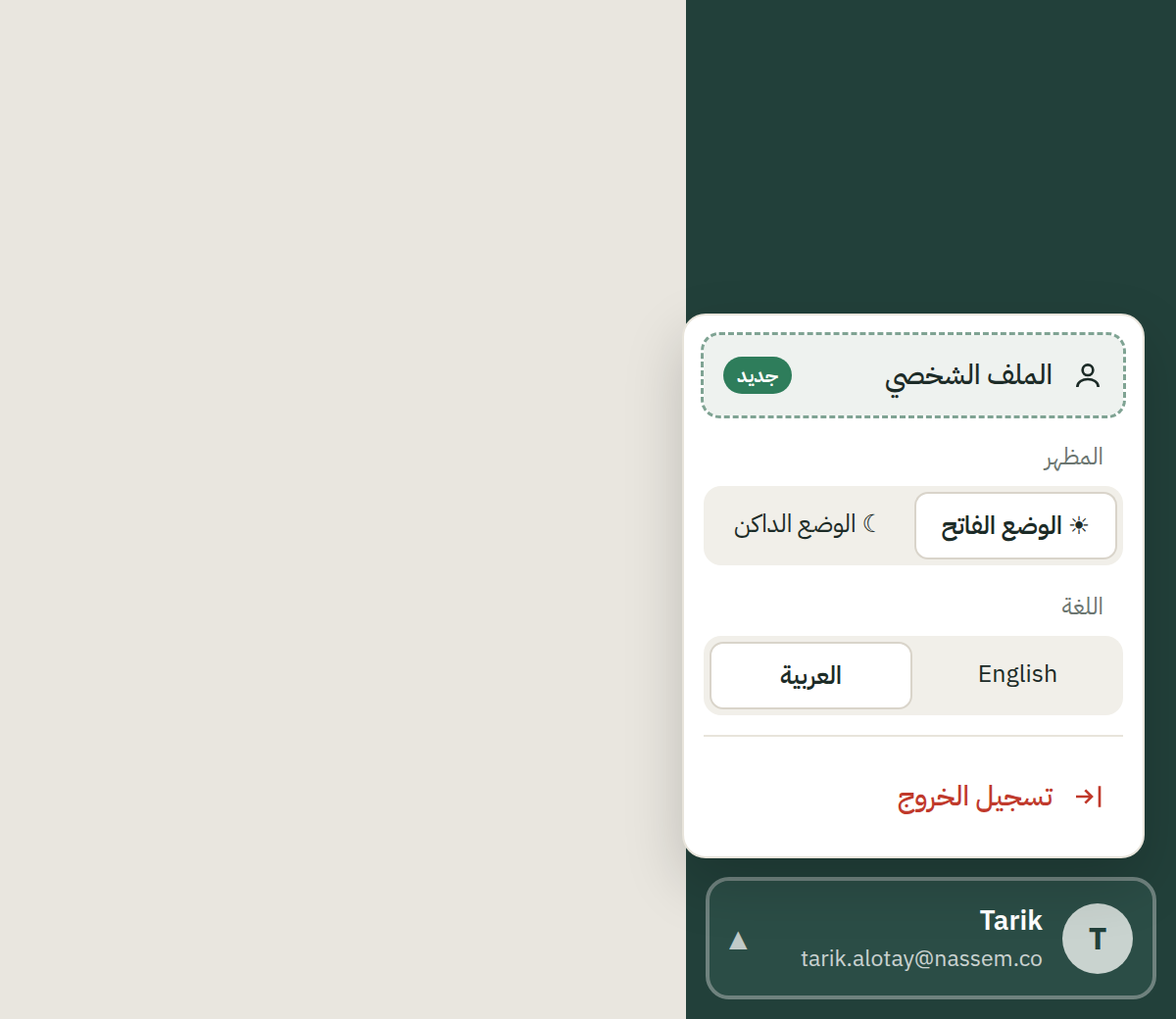
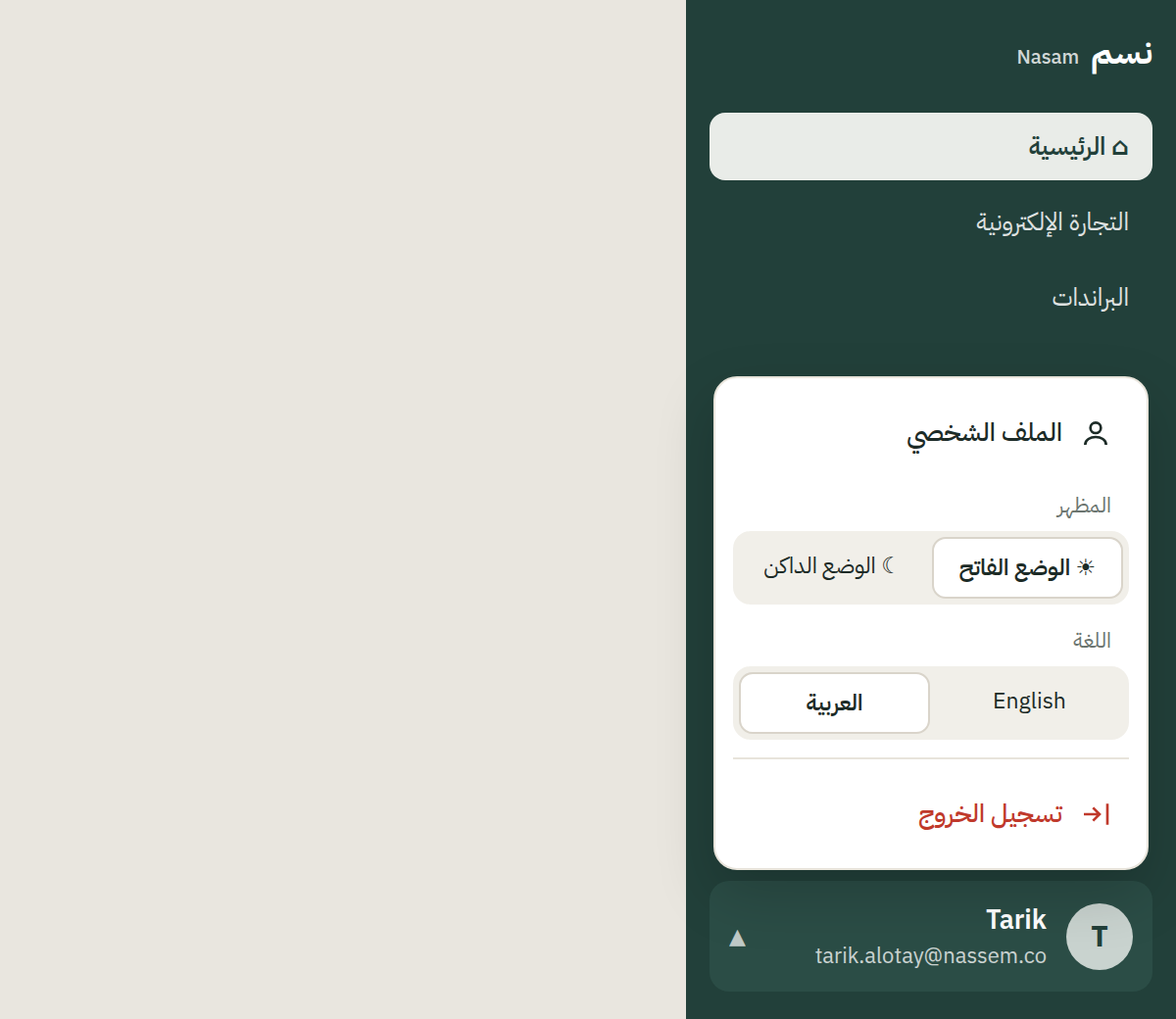
Drop contact email and name preview; add EN mockups on neutral palette
Profile now holds Arabic name, English name, read-only login email and
optional phone only. All six mockups are regenerated in Arabic and
English on the existing Nasam palette with no green accents, badges or
highlights. Docs, data model, API notes and the FE-session prompt are
updated to match.

Claude-Session: https://claude.ai/code/session_01AtmWM16RAQw9CKzDmzBdfN

diff --git a/docs/discovery/user-profile/DISCOVERY.md b/docs/discovery/user-profile/DISCOVERY.md
@@ -1,13 +1,14 @@
-# User Profile (Names, Contact Email, Phone) - UX Discovery
+# User Profile (Localized Names, Phone) - UX Discovery
 
 **Status:** Proposed · **Requested by:** Tarik · **Date:** 2026-09-05
+**Revision:** contact email and the live name preview were removed at the requester's decision; the profile holds names + phone only.
 **Repos affected:** `Nasam-co/nasam` (API + DB), `Nasam-co/nasam-frontend-v2` (UI)
 
 ## Outcome
 
 **Business goal:**
 1. Stop showing mixed-language greetings such as "مساء الخير يا Tarik" (Arabic sentence, English name). The greeting should read naturally in whichever language the user chose.
-2. Have a reliable way to reach every platform user (phone + a second email) when something urgent happens with a brand — a listing suspension, an account-health penalty, a failed campaign — and the person needs to be contacted outside the app.
+2. Have a reliable way to reach every platform user (phone) when something urgent happens with a brand — a listing suspension, an account-health penalty, a failed campaign — and the person needs to be contacted outside the app.
 
 **Success metrics:**
 - 0 greetings where the name script does not match the UI language for users who filled a name in that language.
@@ -16,7 +17,7 @@
 
 ## Problem Statement
 
-Nasam stores only one "full name" and one login email per user, so the platform cannot address the user correctly in both Arabic and English and has no phone or alternate email to reach them when a brand emergency happens outside the app.
+Nasam stores only one "full name" and one login email per user, so the platform cannot address the user correctly in both Arabic and English and has no phone number to reach them when a brand emergency happens outside the app.
 
 ## Target User
 
@@ -42,7 +43,7 @@ Root cause: one free-text `fullName` field with no language, and the greeting si
 
 ## Solution Concept
 
-**Direction:** Add a self-service **Profile** dialog reachable from the sidebar user menu (and by clicking the name/avatar row). It holds two localized name fields (Arabic, English), the login email (read-only), an optional contact email, and a phone number with a country-code selector. Everywhere the platform shows the user's name (greeting, sidebar, admin user list, reports), it uses a single `displayName(user, locale)` rule that picks the name matching the current UI language and falls back sensibly.
+**Direction:** Add a self-service **Profile** dialog reachable from the sidebar user menu (and by clicking the name/avatar row). It holds two localized name fields (Arabic, English), the login email (read-only), and an optional phone number with a country-code selector. Everywhere the platform shows the user's name (greeting, sidebar, admin user list, reports), it uses a single `displayName(user, locale)` rule that picks the name matching the current UI language and falls back sensibly.
 
 **Key insight:** The greeting bug is not a greeting bug — it is a data-model bug. Fixing it means storing names per language, and the profile screen is simply the place where users supply that data. Solving the naming problem gives us a natural, non-intrusive moment to also ask for contact details.
 
@@ -60,7 +61,7 @@ Root cause: one free-text `fullName` field with no language, and the greeting si
 ### Happy path
 1. User clicks their name in the sidebar footer → menu opens → "My profile".
 2. Profile dialog opens with current values prefilled (see migration below for how existing names are split).
-3. User edits Arabic name, English name, contact email, phone (country code selector defaults to Saudi Arabia +966, or to the user's already-saved country).
+3. User edits Arabic name, English name, phone (country code selector defaults to Saudi Arabia +966, or to the user's already-saved country).
 4. "Save" → inline validation → success toast "تم حفظ الملف الشخصي" / "Profile saved" → dialog closes.
 5. Sidebar name and home greeting update immediately with no reload (refetch or optimistic update of the current-user store).
 
@@ -74,18 +75,16 @@ Root cause: one free-text `fullName` field with no language, and the greeting si
 - **Existing full name is mixed script** ("Mohamed العدوي"): migration leaves both localized names empty and keeps `fullName` as the fallback; the user will be asked to fill them.
 - **Phone entered with a leading 0 or with the country code typed into the number** (common for +966 05x…): normalize with a phone library (libphonenumber) before validation; store E.164 (`+9665xxxxxxxx`) plus ISO country (`SA`). Display formatted for humans.
 - **Phone already used by another user:** allow it (a brand owner and their assistant may share a business line). No uniqueness constraint.
-- **Contact email equals login email:** allow, but it adds nothing; show a soft hint "This is already your login email" and still save.
 - **Very long or emoji-laden names:** trim, max 100 chars per name, reject control characters.
 
 ### Error states
 - **Arabic name contains no Arabic letters** (e.g. user types "Tarik" into the Arabic field): block save with "الاسم العربي يجب أن يُكتب بحروف عربية" / "Arabic name must be written in Arabic letters". This is the single most important validation — it is the only thing that structurally prevents image 3 from recurring.
 - **English name contains Arabic letters:** symmetric error "English name must be written in Latin letters".
 - **Invalid phone for the selected country:** "رقم الجوال غير صحيح لهذه الدولة" / "This number is not valid for the selected country".
-- **Invalid contact email:** standard format error.
 - **Network / server failure on save:** keep the dialog open with values intact, show an error toast, allow retry.
 
 ### Empty state
-First open after release: localized names prefilled by migration where possible, phone empty with the country selector on +966, contact email empty. Optional fields carry helper text explaining *why* we ask (see Content Needs) — this is the difference between "another form" and "they want to reach me if my store has a problem".
+First open after release: localized names prefilled by migration where possible, phone empty with the country selector on +966. Optional fields carry helper text explaining *why* we ask (see Content Needs) — this is the difference between "another form" and "they want to reach me if my store has a problem".
 
 ## Information Architecture
 
@@ -99,15 +98,13 @@ The dialog is one screen, no tabs. Order reflects what the user came for and wha
 
 ### Secondary (supporting context)
 - **Login email** — read-only, with the existing note "لا يمكن تغيير البريد الإلكتروني" (same as image 2). Keeps the user oriented about which account this is.
-- **Contact email** — optional input. Helper: "بريد بديل للتواصل معك إن تعذّر الوصول إليك عبر البريد الأساسي" / "An alternate email if we can't reach you on your login email".
-- **Live preview line** — small text under the names: "سيظهر اسمك كالتالي: مساء الخير يا محمد" / "You will appear as: Good evening, Mohamed", re-rendered as they type in the current UI language. Cheap, and it makes the "why two names" question answer itself.
 
 ### Tertiary (on demand)
-- Nothing hidden. Four inputs and a read-only email do not need progressive disclosure. Resist adding role, avatar upload, password change here for now — those are separate tasks.
+- Nothing hidden. Three inputs and a read-only email do not need progressive disclosure. Resist adding role, avatar upload, password change here for now — those are separate tasks.
 
 ### Navigation placement
 - Sidebar footer menu (image 1): **My profile · Appearance · Language · Logout**, in that order. Profile is first because it is an action on "me"; the other three are preferences and stay where users know them.
-- Admin user management (image 2): same fields inside the existing "Edit user" dialog, replacing the single "Full name" input with the two localized names, and adding phone + contact email below the email. Admin dialog keeps its title and layout otherwise. The Role ("الدور") control and all other existing settings in that dialog are out of scope and stay as they are; they will be handled in a later task.
+- Admin user management (image 2): same fields inside the existing "Edit user" dialog, replacing the single "Full name" input with the two localized names, and adding phone below the email. Admin dialog keeps its title and layout otherwise. The Role ("الدور") control and all other existing settings in that dialog are out of scope and stay as they are; they will be handled in a later task.
 
 ## Key Interactions
 
@@ -130,7 +127,6 @@ Field names are a proposal; the implementer should align with existing conventio
 |---|---|---|
 | `name_ar` | varchar(100) | Arabic-script name |
 | `name_en` | varchar(100) | Latin-script name |
-| `contact_email` | varchar(255) | optional, validated format, not unique |
 | `phone_e164` | varchar(20) | E.164, e.g. `+966551234567` |
 | `phone_country` | char(2) | ISO 3166-1 alpha-2, e.g. `SA` |
 
@@ -138,9 +134,11 @@ Field names are a proposal; the implementer should align with existing conventio
 - **One-time migration/backfill:** for each user, if `full_name` is entirely Arabic script (plus spaces) → copy into `name_ar`; if entirely Latin → copy into `name_en`; otherwise leave both null. This makes the feature "work" for most users on day one without asking anything.
 
 **API:**
-- `GET /me` — returns the five new fields alongside the existing ones.
-- `PATCH /me` — accepts the five fields; server-side validation: script check per name, phone parsed/validated with libphonenumber for the given country, email format. Login email is not accepted here.
+- `GET /me` — returns the four new fields alongside the existing ones.
+- `PATCH /me` — accepts the four fields; server-side validation: script check per name, phone parsed/validated with libphonenumber for the given country. Login email is not accepted here.
 - Admin `PATCH /users/:id` — same fields, same validation, existing authorization.
+
+**Visual palette:** stay on the existing Nasam UI palette as seen in the current app (dark sidebar, cream surfaces, neutral borders, dark-ink primary button, red only for errors and logout). Do not introduce green accent colors, badges, or highlights; the mockups in `mockups/` follow this.
 
 **Display rule (single shared helper, used everywhere a user's name is rendered):**
 
@@ -167,13 +165,13 @@ The home greeting must use this helper and must omit the "يا {name}" / ", {nam
 
 ## Heuristics Notes
 
-- **Visibility of system status:** live "You will appear as" preview + immediate sidebar/greeting update after save.
+- **Visibility of system status:** immediate sidebar/greeting update after save, plus a success toast.
 - **Match between system and real world:** country flags + dial codes, and each name field in its own script direction.
 - **Error prevention:** direction forcing per field, digit normalization, country auto-detect on paste — most errors are prevented before validation runs.
 - **User control:** dirty-close guard, Cancel always available, nothing saved until Save.
 - **Consistency:** reuses the "Edit user" dialog layout and the read-only-email note that users have already seen.
 - **Accessibility:** every input has a visible label (not placeholder-only), errors are associated with fields via `aria-describedby`, the country selector is keyboard-navigable and searchable, contrast follows the existing light/dark themes. Screen readers announce the save toast.
-- **Cognitive load:** five fields, one screen, no tabs, helper text explains *why* only where a user might hesitate (names, phone).
+- **Cognitive load:** four fields, one screen, no tabs, helper text explains *why* only where a user might hesitate (names, phone).
 
 ## Critique & Risks
 
@@ -182,7 +180,7 @@ The home greeting must use this helper and must omit the "يا {name}" / ", {nam
 - **Script validation false positives:** names with apostrophes, hyphens, or diacritics ("Al-Otaibi", "محمّد"). Validation must allow punctuation, spaces, and Arabic diacritics; the check is "contains at least one letter of the expected script and no letters of the other script", not "only letters of the expected script".
 - **Non-Arabic, non-Latin names** (e.g. a Turkish colleague with "İ", or a Cyrillic name): Latin extended is Latin — accept it in the English field. Anything else is out of scope; the legacy full name still works as a fallback.
 - **Phone verification is absent:** a typo silently produces an unreachable number. Acceptable for v1; OTP verification is a natural follow-up once SMS alerts exist.
-- **Privacy:** phone and contact email are personal data. They should be visible only to the user and to admins with user-management rights, not to other users of the same organization by default. Confirm with the existing permissions model.
+- **Privacy:** the phone number is personal data. They should be visible only to the user and to admins with user-management rights, not to other users of the same organization by default. Confirm with the existing permissions model.
 
 ## Content Needs
 
@@ -191,7 +189,6 @@ The home greeting must use this helper and must omit the "يا {name}" / ", {nam
 - الاسم بالعربية / Name in Arabic
 - الاسم بالإنجليزية / Name in English
 - البريد الإلكتروني (تسجيل الدخول) / Login email
-- بريد إلكتروني للتواصل (اختياري) / Contact email (optional)
 - رقم الجوال (اختياري) / Phone number (optional)
 - الدولة / Country
 - حفظ / Save · إلغاء / Cancel
@@ -199,7 +196,6 @@ The home greeting must use this helper and must omit the "يا {name}" / ", {nam
 **Helper text:**
 - Names: "يُستخدم عندما تكون واجهة المنصة بالعربية" / "Used when the platform is in English"
 - Phone: "حتى نتمكن من التواصل معك بسرعة في الحالات الطارئة المتعلقة بمتجرك" / "So we can reach you quickly if something urgent happens with your store"
-- Preview: "سيظهر اسمك كالتالي: {greeting}" / "You will appear as: {greeting}"
 
 **Nudge (home page):** "أضف رقم جوالك حتى نتمكن من التواصل معك في الحالات الطارئة · إضافة" / "Add your phone so we can reach you in urgent cases · Add"
 
@@ -207,7 +203,6 @@ The home greeting must use this helper and must omit the "يا {name}" / ", {nam
 - "الاسم العربي يجب أن يُكتب بحروف عربية" / "Arabic name must be written in Arabic letters"
 - "الاسم الإنجليزي يجب أن يُكتب بحروف لاتينية" / "English name must be written in Latin letters"
 - "رقم الجوال غير صحيح لهذه الدولة" / "This number is not valid for the selected country"
-- "صيغة البريد الإلكتروني غير صحيحة" / "Email format is not valid"
 - "تعذّر الحفظ، حاول مرة أخرى" / "Could not save, please try again"
 
 **Confirmations:**
@@ -218,15 +213,14 @@ The home greeting must use this helper and must omit the "يا {name}" / ", {nam
 
 ## Open Questions (for Tarik)
 
-1. **Contact email vs. login email:** the request says "email" — confirmed here as an *additional* contact email, since the login email is read-only. If you meant something else (e.g. making login email editable), say so.
-2. **Who can see phone/contact email?** Proposed: the user themselves + admins with user-management rights. Should org owners see their own staff's numbers?
-3. **Should phone become mandatory for Nasam AMs/GCs** after a grace period? Optional for everyone in v1 as requested.
-4. **Phone verification (OTP)** — out of scope for v1; flag if you want it now.
-5. **Country list:** all countries, or a short list (SA, AE, KW, QA, BH, OM, EG, TR, JO) first with "more" below? Proposed: full list, GCC + Turkey + Egypt pinned at the top.
+1. **Who can see the phone number?** Proposed: the user themselves + admins with user-management rights. Should org owners see their own staff's numbers?
+2. **Should phone become mandatory for Nasam AMs/GCs** after a grace period? Optional for everyone in v1 as requested.
+3. **Phone verification (OTP)** — out of scope for v1; flag if you want it now.
+4. **Country list:** all countries, or a short list (SA, AE, KW, QA, BH, OM, EG, TR, JO) first with "more" below? Proposed: full list, GCC + Turkey + Egypt pinned at the top.
 
 ## Implementation Checklist
 
-- [ ] DB migration: five nullable columns on `users` + backfill script splitting `full_name` by script
+- [ ] DB migration: four nullable columns on `users` + backfill script splitting `full_name` by script
 - [ ] API: extend `GET /me`, `PATCH /me`, admin `PATCH /users/:id` with validation (script check, libphonenumber, email format)
 - [ ] Shared `displayName(user, locale)` helper (backend for emails/reports, frontend for UI) and greeting updated to omit the name segment when empty
 - [ ] Frontend: Profile dialog + "My profile" menu item + clickable sidebar name row

diff --git a/docs/discovery/user-profile/UX-TOUCH.md b/docs/discovery/user-profile/UX-TOUCH.md
@@ -3,7 +3,8 @@
 **Type:** UX touch — an addition to shipped UI (sidebar user menu, home greeting, admin "Edit user" dialog).
 **Where it ships:** `Nasam-co/nasam-frontend-v2`. The backend (`Nasam-co/nasam`) is checked only for whether the data fields exist; if they do not, a small schema/API addition is a prerequisite (see "Backend data check").
 **Companion doc:** `DISCOVERY.md` in this folder holds the full reasoning, copy, and validation rules. This file is the placement-level design an implementer works from.
-**Mockups:** `mockups/` in this folder (rendered PNGs).
+**Mockups:** `mockups/` in this folder (rendered PNGs, each in Arabic `-ar` and English `-en`). Palette: the existing Nasam UI palette only (dark sidebar, cream surfaces, neutral borders, dark-ink primary button, red for errors/logout). No green accents, badges, or highlights.
+**Revision:** contact email and the live name preview were removed at the requester's decision.
 
 > Note on grounding: this session could not read either Nasam-co repository (cross-owner access is blocked from a session started on this repo). The "existing feature" section below is reconstructed from the three screenshots in the request. The implementer must confirm component names and data flow in the frontend session before building; every place that needs confirmation is marked **[verify]**.
 
@@ -24,7 +25,7 @@
 ## 2. The need (from the request)
 
 - Users should be able to open their profile from the main page by clicking their name.
-- They can add an **Arabic name**, an **English name**, a **contact email**, and a **phone number with country code**.
+- They can add an **Arabic name**, an **English name**, and a **phone number with country code**.
 - Existing data (full name, login email) stays **mandatory**; the new fields are **optional**.
 - Goal 1: stop the mixed-language greeting (image 3).
 - Goal 2: have contact details ("contacts") for emergency cases.
@@ -34,7 +35,7 @@
 ## 3. Placement
 
 ### 3a. Sidebar user menu → add "My profile" as the first row
-- **How the user opens the profile** (see `mockups/07-open-profile-flow-ar.png`): (1) click the name/avatar row at the bottom of the sidebar → (2) the existing popover opens with "الملف الشخصي / My profile" as its first row → (3) clicking it opens the profile dialog over the current page. Alternate entry: the "إضافة / Add" link in the home-page phone nudge opens the same dialog with the phone field focused.
+- **How the user opens the profile** (see `mockups/06-open-profile-flow-ar.png` / `-en.png`): (1) click the name/avatar row at the bottom of the sidebar → (2) the existing popover opens with "الملف الشخصي / My profile" as its first row → (3) clicking it opens the profile dialog over the current page. Alternate entry: the "إضافة / Add" link in the home-page phone nudge opens the same dialog with the phone field focused.
 - **Above:** nothing; it is the first item in the popover.
 - **Below:** the existing Appearance section, then Language, then the divider and Logout. The three existing controls do not move.
 - Row style matches the Logout row (icon + label), with a user icon. Optional "جديد / New" pill for the first release; remove after a few weeks.
@@ -45,11 +46,9 @@
 - Field order, top to bottom:
   1. Name in Arabic (`dir="rtl"` forced)
   2. Name in English (`dir="ltr"` forced)
-  3. Live preview line: "سيظهر اسمك كالتالي: مساء الخير يا طارق" / "You will appear as: Good evening, Tarik" — rendered with the same greeting function the home page uses, in the current UI locale
-  4. Login email (disabled, existing note under it)
-  5. Contact email (optional)
-  6. Phone: country-code selector + number input (optional)
-  7. Save / Cancel
+  3. Login email (disabled, existing note under it)
+  4. Phone: country-code selector + number input (optional)
+  5. Save / Cancel
 - Width: same as "Edit user" (~520px). Height fits without scrolling on a 768px-tall laptop; on smaller viewports the dialog body scrolls, header and buttons stay fixed.
 
 ### 3c. Home greeting → use the localized name
@@ -59,7 +58,7 @@
 
 ### 3d. Admin "Edit user" dialog → same fields
 - Replace the single "Full name" input with "Name in Arabic" + "Name in English".
-- Add Phone and Contact email below the email field, before Role.
+- Add Phone below the email field, before Role.
 - **Role ("الدور") and every other existing control in this dialog stay exactly as they are today.** Do not restyle, reorder, or change the role selector; it will be revisited in a separate task. The mockup shows it as an "as-is" placeholder for that reason.
 - Keep the legacy full name readable somewhere only if the two localized names are both empty (e.g. as placeholder text in the Arabic/English inputs, "Migrated from: {fullName}"), so admins understand what the migration did.
 
@@ -70,12 +69,10 @@
 | Item | Level | Notes |
 |---|---|---|
 | Arabic name, English name | Primary | The reason the user is here. Each in its own script direction. |
-| Live greeting preview | Primary | Answers "why two names" without a paragraph of help text. |
 | Phone (+country) | Primary | The business's second goal. Helper text explains the emergency purpose. |
 | Login email (read-only) | Secondary | Orientation only. |
-| Contact email | Secondary | Optional; helper explains it is a fallback channel. |
 
-Data relations: the names feed the sidebar footer, home greeting, admin user list, and any place the user's name is printed (reports, activity logs) **[verify: list the call sites of `fullName`]**. Phone and contact email are shown only in the profile and the admin dialog.
+Data relations: the names feed the sidebar footer, home greeting, admin user list, and any place the user's name is printed (reports, activity logs) **[verify: list the call sites of `fullName`]**. The phone number is shown only in the profile and the admin dialog.
 
 ---
 
@@ -97,7 +94,6 @@ Data relations: the names feed the sidebar footer, home greeting, admin user lis
 - **No localized names yet (legacy user):** greeting and sidebar use `fullName`; dialog shows empty localized inputs with the migrated value as placeholder.
 - **Only one localized name:** used in both languages rather than showing nothing.
 - **Both names empty and `fullName` empty:** greeting drops the name segment; sidebar shows the email.
-- **Contact email = login email:** allowed, soft hint, no error.
 - **Same phone on two users:** allowed.
 - **Extremely long name:** 100-char max per field; sidebar truncates with ellipsis and full name on hover/title.
 - **Feature degrades gracefully:** if the BE does not yet return the new fields, the FE treats them as null and everything behaves exactly as today. Ship the FE behind that null-tolerance so it can go out before/with the BE change.
@@ -116,14 +112,14 @@ Data relations: the names feed the sidebar footer, home greeting, admin user lis
 
 Answer these before building the FE, in the FE/BE session that has repo access:
 
-1. **User entity / table:** does it already have any of `name_ar`, `name_en`, `phone`, `phone_country`, `contact_email` (or similar)? Search for `phone` and `nameAr` / `name_ar` in the user model, migrations, and DTOs. If any exist, reuse them and their validation.
-2. **Current-user endpoint** (`GET /me` or `GET /auth/me` **[verify path]**): which fields does it return? The FE needs the five new fields here.
+1. **User entity / table:** does it already have any of `name_ar`, `name_en`, `phone`, `phone_country` (or similar)? Search for `phone` and `nameAr` / `name_ar` in the user model, migrations, and DTOs. If any exist, reuse them and their validation.
+2. **Current-user endpoint** (`GET /me` or `GET /auth/me` **[verify path]**): which fields does it return? The FE needs the four new fields here.
 3. **Self-update endpoint:** is there a `PATCH /me` (or `PUT /users/me`)? If only the admin `PATCH /users/:id` exists, a self-scoped update endpoint is required, with the login email excluded from the accepted body.
-4. **Admin update DTO:** add the same five fields and validation (script check, libphonenumber, email format).
+4. **Admin update DTO:** add the same four fields and validation (script check, libphonenumber).
 5. **Identity source:** if names come from an external IdP (Google Workspace, Auth0, Salla OAuth) on every login, make sure the login sync does not overwrite `name_ar` / `name_en` — it should only touch the legacy `fullName`.
 6. **Backfill:** one-off script/migration splitting `fullName` into `name_ar` or `name_en` by script (details in DISCOVERY.md). Confirm the migration tooling (Prisma, TypeORM, Knex, raw SQL) **[verify]**.
 7. **Locale:** how does the BE know the user's UI language for emails/notifications? If it stores one, `displayName` should be implemented once on the BE too (for email templates) and once on the FE.
-8. **Privacy:** who can read phone/contact email via existing user-list endpoints? Restrict to self + admin roles; do not leak to organization-wide user listings.
+8. **Privacy:** who can read the phone number via existing user-list endpoints? Restrict to self + admin roles; do not leak to organization-wide user listings.
 
 ---
 
@@ -144,4 +140,4 @@ Answer these before building the FE, in the FE/BE session that has repo access:
 
 Start a new session with `Nasam-co/nasam-frontend-v2` as the source, add `Nasam-co/nasam` for the backend check, and paste:
 
-> Implement the user profile feature described in `tarikalotay/Nasam-General-Tasks` → `docs/discovery/user-profile/UX-TOUCH.md` and `DISCOVERY.md` (branch `claude/user-profile-contact-info-ahup85`; mockups in `mockups/`). First run the "Backend data check" section against `Nasam-co/nasam` and report which fields/endpoints already exist. Then build the FE: "My profile" entry in the sidebar user menu + clickable footer row, the profile dialog (Arabic name, English name, read-only login email, optional contact email, phone with country code), the `displayName(user, locale)` helper wired into the greeting and sidebar, the same fields in the admin Edit-user dialog, and the phone nudge on the home page. Existing full name and login email stay mandatory; all new fields are optional. Match the existing dialog, input, and toast components; add AR/EN i18n keys. If the BE lacks the fields, make the FE null-tolerant and list the exact BE changes needed.
+> Implement the user profile feature described in `tarikalotay/Nasam-General-Tasks` → `docs/discovery/user-profile/UX-TOUCH.md` and `DISCOVERY.md` (branch `claude/user-profile-contact-info-ahup85`; mockups in `mockups/`). First run the "Backend data check" section against `Nasam-co/nasam` and report which fields/endpoints already exist. Then build the FE: "My profile" entry in the sidebar user menu + clickable footer row, the profile dialog (Arabic name, English name, read-only login email, optional phone with country code), the `displayName(user, locale)` helper wired into the greeting and sidebar, the same fields in the admin Edit-user dialog, and the phone nudge on the home page. Existing full name and login email stay mandatory; all new fields are optional. Match the existing dialog, input, and toast components and the existing Nasam palette (no new green accents); add AR/EN i18n keys. If the BE lacks the fields, make the FE null-tolerant and list the exact BE changes needed.
